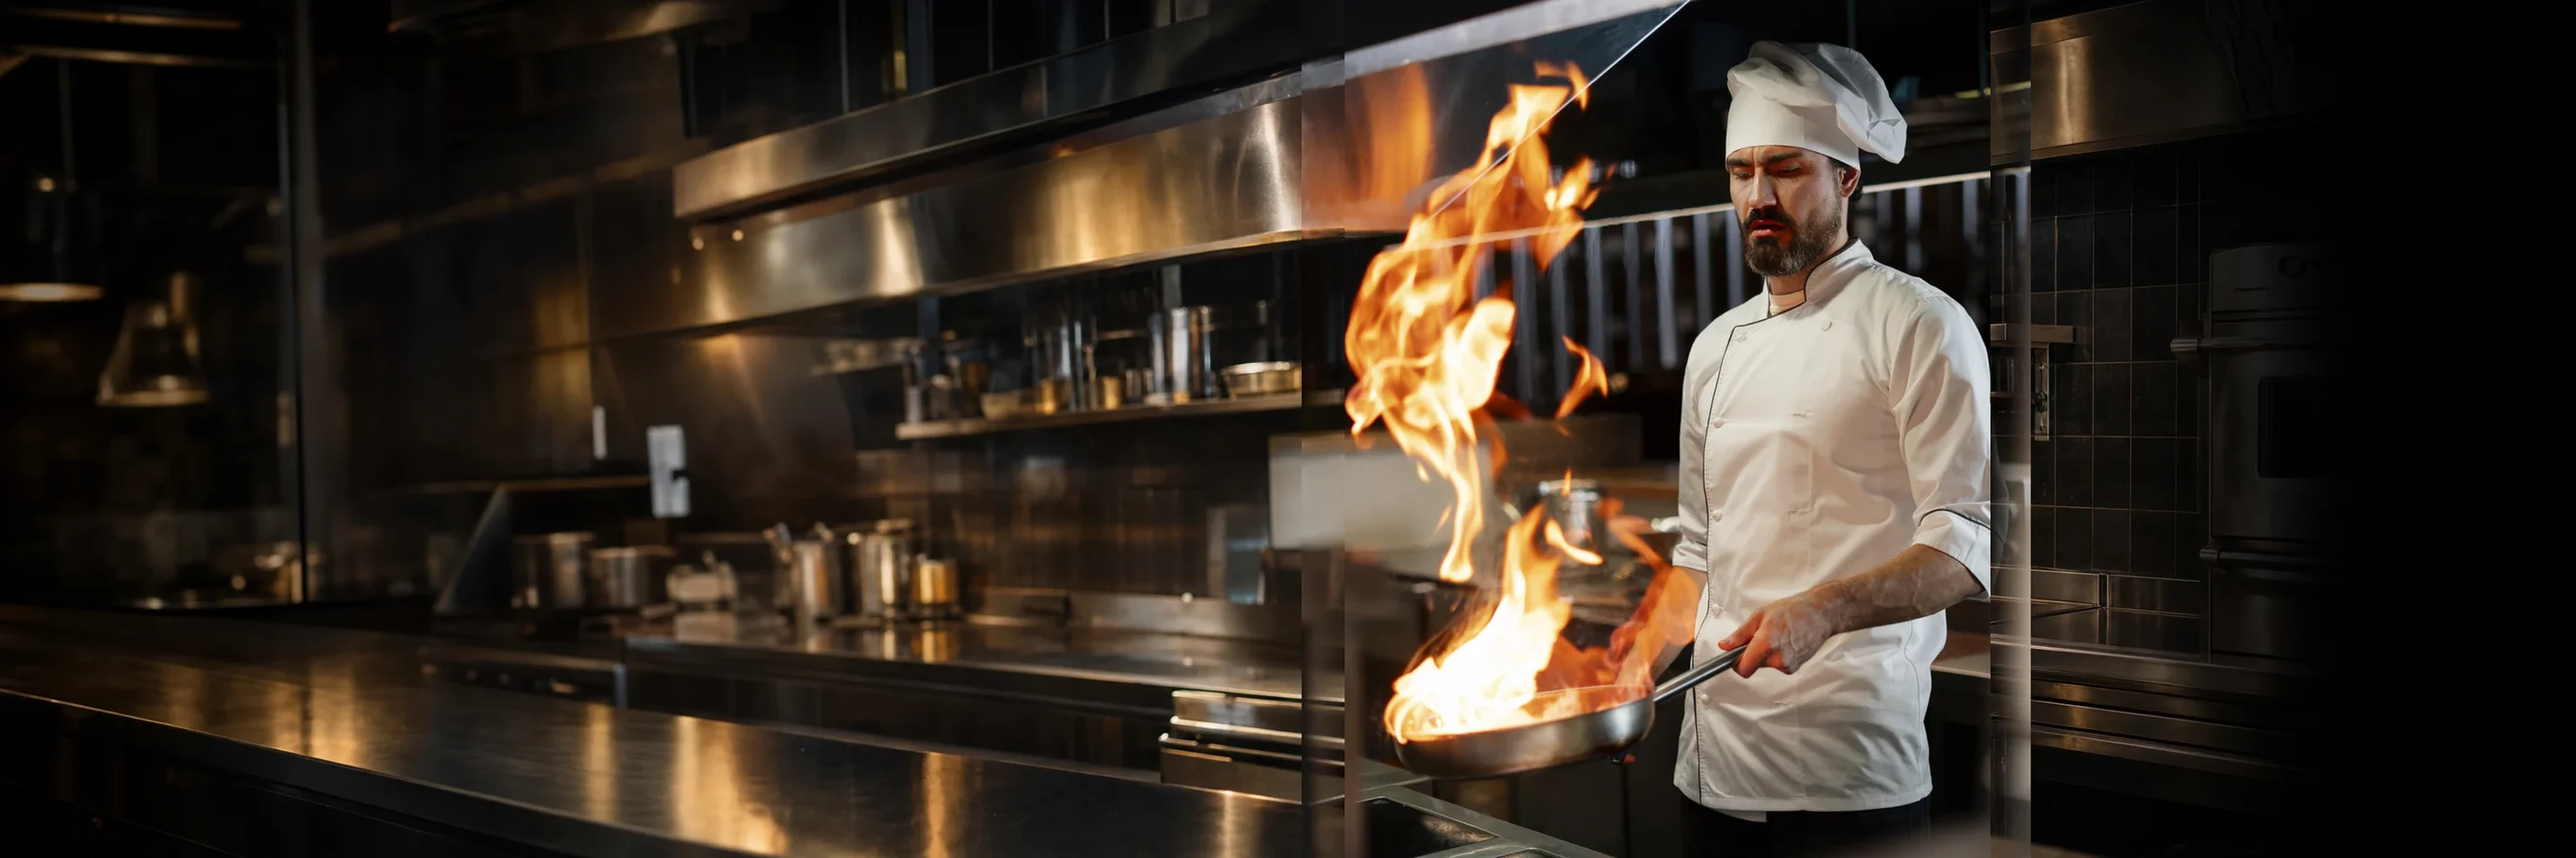
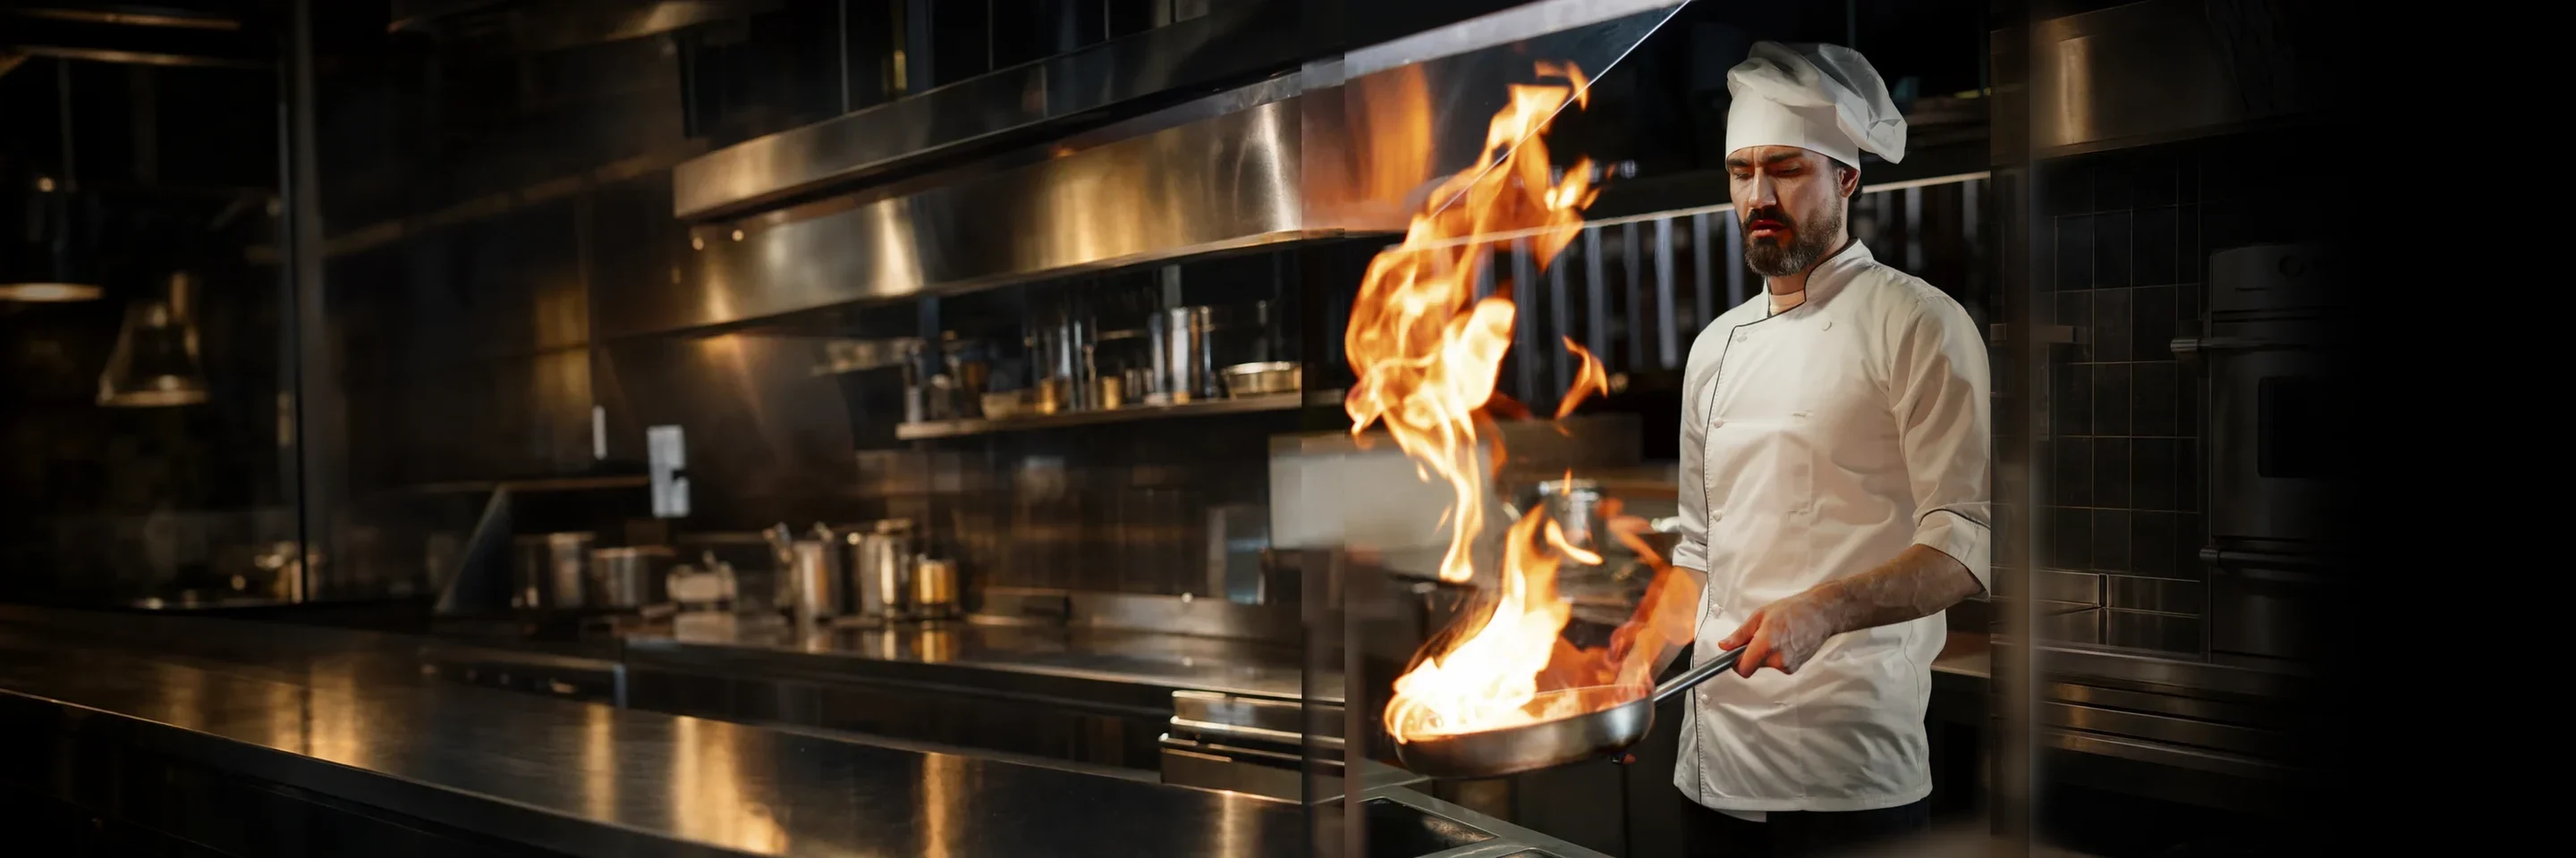
Gastro: hero s kuchárom a panvicou

Changed region(s): [[0.7188, 0.2812, 0.8125, 1.0], [0.7188, 0.0938, 0.8125, 0.3125], [0.7812, 0.0938, 0.8125, 0.125]]

diff --git a/kategoria.html b/kategoria.html
@@ -18,7 +18,7 @@
   .phero.phero--narrow .phero__img::after { background: linear-gradient(90deg, rgba(11,11,12,.9) 0%, rgba(11,11,12,.72) 28%, rgba(11,11,12,.1) 46%, rgba(11,11,12,0) 60%, rgba(11,11,12,.35) 100%); }
   .phero.phero--narrow .script { right: 3%; top: 42%; }
   @media (max-width: 1240px) { .phero.phero--narrow .script { display: none; } }
-  @media (max-width: 640px) { .phero.phero--narrow .phero__img img { object-position: 62% 20%; } }
+  @media (max-width: 640px) { .phero.phero--narrow .phero__img img { object-position: 70% 15%; } }
   .phero h1 { font-size: clamp(32px, 3.6vw, 52px); margin-top: 18px; }
   .phero .lead { font-size: 15px; max-width: 440px; margin-top: 10px; }
   .phero .trust { padding-top: 18px; gap: 12px 34px; }
@@ -207,7 +207,7 @@
   /* ---------- konfigurácia sekcií ---------- */
   const TRUST = [["shield", "Overená kvalita", "Profesionálne značky"], ["truck", "Rýchle doručenie", "Po celom Slovensku"], ["people", "Odborné poradenstvo", "V predajni aj online"]];
   const SEC = {
-    gastro: { h: "Gastro a biele odevy", lead: "Kvalitné kuchárske oblečenie, biele odevy a doplnky pre gastronómiu, potravinárstvo a hygienické prevádzky.", img: "assets/gen/gastro-hero-wide.webp", pos: "50% 0%", narrow: true,
+    gastro: { h: "Gastro a biele odevy", lead: "Kvalitné kuchárske oblečenie, biele odevy a doplnky pre gastronómiu, potravinárstvo a hygienické prevádzky.", img: "assets/gen/hero-flambe-wide.webp", pos: "60% 12%", narrow: true,
       tiles: [["rondony-a-bluze", "Kuchárske<br>oblečenie", "assets/img/gastro-kuchar-ciapka.webp", "70% 30%"], ["kucharska-obuv", "Obuv<br>do gastronómie", "assets/img/gastro-obuv.webp", "60% 60%"], ["zastery-a-plaste", "Zástery<br>a doplnky", "assets/img/zastery.webp", "60% 40%"], ["kucharske-nohavice", "Biele odevy<br>a nohavice", "assets/img/biele-odevy.webp", "60% 50%"]] },
     zdravotnictvo: { h: "Zdravotníctvo a wellness", lead: "Pohodlné, funkčné a moderné pracovné odevy pre zdravotníkov, opatrovateľov a wellness profesionálov.", img: "assets/gen/zdrav-hero.webp", pos: "55% 30%", light: true,
       trust: [...TRUST, ["shirt", "Široký výber", "Pre ženy aj mužov"]],
